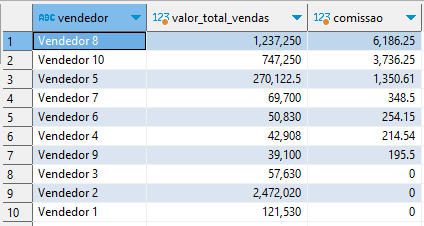
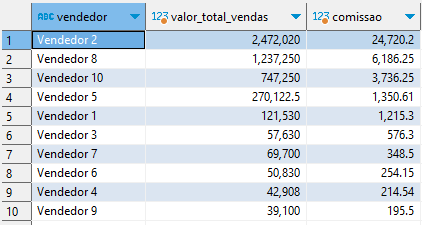
atualiza exercicio 10

diff --git a/README.md b/README.md
@@ -103,25 +103,42 @@ SELECT * FROM tbtaissa
 SELECT * FROM tbeducacao
 ```
 
-| Instituicao de ensino | Curso | Status | Semestre  
-|--- |--- |--- |---
-| Unicesumar | Análise e desenvolvimento de sistemas | Cursando | 4 
-| Instituto Federal do Paraná | Técnico em informática | Concluído | 0
+| Código | Instituicao de ensino | Curso | Status | Semestre | Ano de conclusão 
+|--- |--- |--- |--- |--- |---
+| 1 | Instituto Federal do Paraná | Técnico em informática | Concluído | 0 | 2021
+| 2 | Unicesumar | Análise e desenvolvimento de sistemas | Cursando | 4 | 2023
 
 ```SQL
 SELECT * FROM tbtecnologias
 ```
 
-| Nome | Conhecimento 
-|--- |--- 
-| C | Básico
-| Pyhton | Básico
-| Java | Básico
-| SQL | Intermediário
-| HTML | Básico
-| CSS | Básico
-| Javascript | Básico
-| Git | Intermediário
+| Código | Nome | Conhecimento 
+|--- |--- |---
+| 1 | C | Básico
+| 2 | Pyhton | Básico
+| 3 | Java | Básico
+| 4 | SQL | Intermediário
+| 5 | HTML | Básico
+| 6 | CSS | Básico
+| 7 | Javascript | Básico
+| 8 | Git | Intermediário
+
+```SQL
+SELECT * FROM tbhobbies
+```
+
+| Código | Hobbie
+|--- |---
+| 1 | Ouvir música 
+| 2 | Ler
+| 3 | Assistir
+| 4 | Ficar com animais de estimação
+
+```SQL
+SELECT * FROM tbcontato
+```
+| Código | Nome | Link
+
 
 [![Linkedin Badge](https://img.shields.io/badge/-Taissa-blue?style=flat-square&logo=Linkedin&logoColor=white&link=https://www.linkedin.com/in/taissa-silva-39a4171b5/)](https://www.linkedin.com/in/taissa-silva-39a4171b5/) 
 [![Gmail Badge](https://img.shields.io/badge/-staissa002@gmail.com-c14438?style=flat-square&logo=Gmail&logoColor=white&link=mailto:staissa002@gmail.com)](mailto:staissa002@gmail.com)

diff --git a/sprint2/README.md b/sprint2/README.md
@@ -190,7 +190,7 @@ WITH valor_total_vendas AS ( --Calcula o toal de vendido por cada vendedor (valo
 SELECT 
 	vdd.nmvdd AS vendedor, 
 	vtv.valor_total_vendas, 
-	ROUND(vtv.valor_total_vendas*(vdd.perccomissao/100), 2) AS comissao --Calcula a comissão (valor de vendas * percentual) e arredonda pra 2 casas decimais
+	ROUND(vtv.valor_total_vendas*vdd.perccomissao/100, 2) AS comissao --Calcula a comissão (valor de vendas * percentual) e arredonda pra 2 casas decimais
 FROM tbvendedor AS vdd
 LEFT JOIN valor_total_vendas AS vtv
 	ON vdd.cdvdd = vtv.cdvdd
